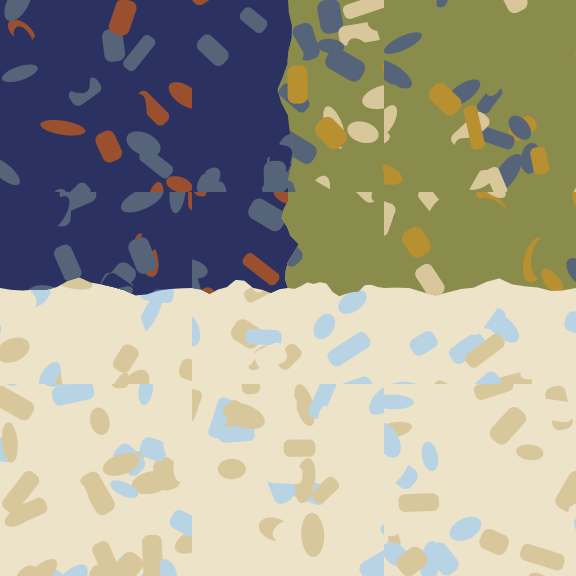
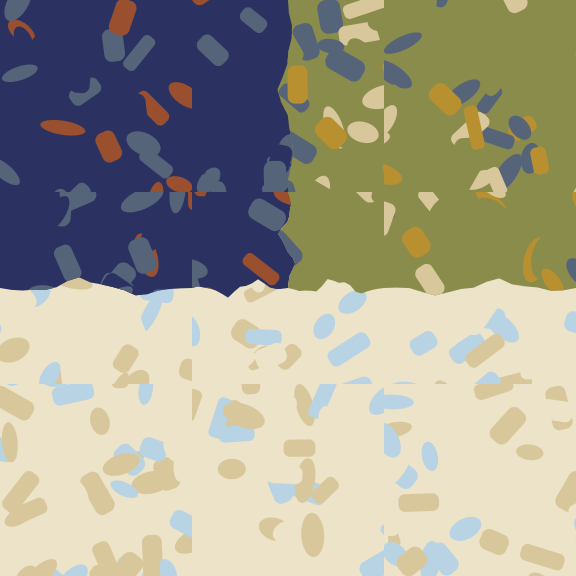
Add seed groups for named masks; regenerate v8 junction specs
Claude-Session: https://claude.ai/code/session_01V7FKm6ieSF4AmKKv53YUgA

Changed region(s): [[0.3438, 0.3438, 0.6562, 0.5312]]

diff --git a/src/metapuzzle/classes.py b/src/metapuzzle/classes.py
@@ -31,6 +31,9 @@ Spec format (see ``data/sample_classes.json``)::
   one by name with ``"mask": "name"``. The layers then share one clip region, and its
   ``<clipPath>`` is written once per piece. Example: a mosaic fill and its chips both
   clipped to the same blotch. Every named mask must be used by a layer.
+* A named mask may declare ``"seed_group": "name"``. Every mask of the class with the same
+  seed group draws its geometry from one seed, so two masks that must line up (the parts of
+  a ``tee`` junction) agree on every piece. Without a seed group a named mask has its own seed.
 * ``"outline_of": "name"`` (primitive ``march_line`` only) draws the boundary of a named
   ``march_mask`` instead of clipping to it. The layer takes the mask's geometry
   (pattern, roughness, wobble, inset) and its seed, so the line lies exactly where the
@@ -38,7 +41,8 @@ Spec format (see ``data/sample_classes.json``)::
   (``stroke``, ``color_index``). It is not clipped, and it cannot also have a ``mask``.
 * Layers are drawn in order. Layer ``i`` of a piece with seed ``s`` uses a seed derived
   from ``(s, i)`` through SHA-256 (an inline mask uses ``(s, "i:mask")``, a named mask
-  ``(s, "mask:name")``, and an outline layer the seed of the mask it outlines), so layers
+  ``(s, "mask:name")`` or ``(s, "group:seed_group")``, and an outline layer the seed of the
+  mask it outlines), so layers
   are independent and the output does not depend on ``PYTHONHASHSEED``.
 * Top-level ``ref_size`` (default 100) is the unit the spec is written in. Every piece
   is drawn at that size and the fragment is scaled to the display size, so the artwork
@@ -111,6 +115,7 @@ class ClassSpecError(ValueError):
 class Mask:
     primitive: str
     params: dict
+    seed_group: str | None = None    # named masks only: the group whose masks share a seed
 
 
 @dataclass(frozen=True)
@@ -147,17 +152,21 @@ def _check_keys(d: Mapping, allowed: set[str], where: str, required: Sequence[st
             raise ClassSpecError(f"{where}: missing required key {key!r}")
 
 
-def _parse_mask(where: str, raw: Any) -> Mask:
+def _parse_mask(where: str, raw: Any, *, named: bool = False) -> Mask:
     if not isinstance(raw, Mapping):
         raise ClassSpecError(f"{where}: mask must be an object")
-    _check_keys(raw, {"primitive", "params"}, f"{where} mask", ("primitive",))
+    allowed = {"primitive", "params", "seed_group"} if named else {"primitive", "params"}
+    _check_keys(raw, allowed, f"{where} mask", ("primitive",))
     prim = raw["primitive"]
     if not isinstance(prim, str):
         raise ClassSpecError(f"{where}: mask primitive must be a string")
     params = raw.get("params", {})
     if not isinstance(params, Mapping):
         raise ClassSpecError(f"{where}: mask params must be an object")
-    return Mask(prim, dict(params))
+    group = raw.get("seed_group")
+    if group is not None and (not isinstance(group, str) or not group):
+        raise ClassSpecError(f"{where}: seed_group must be a non-empty string")
+    return Mask(prim, dict(params), group)
 
 
 def _parse_layer(where: str, index: int, raw: Any) -> Layer:
@@ -208,7 +217,7 @@ def _parse_class(name: str, raw: Any) -> PieceClass:
     if not isinstance(masks_raw, Mapping):
         raise ClassSpecError(f"{where}: masks must be an object")
     masks = {
-        mname: _parse_mask(f"{where} mask {mname!r}", m)
+        mname: _parse_mask(f"{where} mask {mname!r}", m, named=True)
         for mname, m in masks_raw.items()
         if not str(mname).startswith("_")
     }
@@ -254,6 +263,11 @@ def _resolve_outline(layer: Layer, masks: Mapping[str, Mask]) -> Layer:
 def _layer_seed(piece_seed: int, tag: int | str) -> int:
     digest = hashlib.sha256(f"{int(piece_seed)}:{tag}".encode("utf-8")).digest()
     return int.from_bytes(digest[:8], "big")
+
+
+def _mask_tag(name: str, mask: Mask) -> str:
+    """The seed tag of a named mask: its seed group when it has one, else its own name."""
+    return f"group:{mask.seed_group}" if mask.seed_group is not None else f"mask:{name}"
 
 
 # ------------------------------------------------------------------ spec
@@ -390,16 +404,17 @@ class ClassSpec:
         used = {layer.mask for layer in layers if isinstance(layer.mask, str)}
         return {
             name: MASK_PRIMITIVES[mask.primitive](
-                _layer_seed(piece_seed, f"mask:{name}"), size, (), **mask.params,
+                _layer_seed(piece_seed, _mask_tag(name, mask)), size, (), **mask.params,
             )
             for name, mask in masks.items() if name in used
         }
 
     def _layer_fragment(self, layer: Layer, index: int, piece_seed: int, size: float,
-                        clips: Mapping[str, tuple[str, str]]) -> str:
+                        clips: Mapping[str, tuple[str, str]], masks: Mapping[str, Mask]) -> str:
         palette = self._resolve(layer.palette)
         # An outline layer shares the seed of the mask it outlines, so its line is that edge.
-        tag = index if layer.outline_of is None else f"mask:{layer.outline_of}"
+        tag = index if layer.outline_of is None else _mask_tag(layer.outline_of,
+                                                                masks[layer.outline_of])
         body = PRIMITIVES[layer.primitive](
             _layer_seed(piece_seed, tag), size, palette,
             background=layer.background, **layer.params,
@@ -440,10 +455,11 @@ class ClassSpec:
             else:
                 layers, masks = pc.layers, pc.masks
             clips = self._named_clips(layers, masks, rng_seed, ref)
-            defs = "".join(clip for clip, _ in clips.values())
+            # Masks with the same geometry (a shared seed group and params) write one clip.
+            defs = "".join({cid: clip for clip, cid in clips.values()}.values())
             inner = tx.compose(
                 f"<defs>{defs}</defs>" if defs else "",
-                *(self._layer_fragment(layer, i, rng_seed, ref, clips)
+                *(self._layer_fragment(layer, i, rng_seed, ref, clips, masks)
                   for i, layer in enumerate(layers)),
             )
             return f'<g transform="scale({float(size) / ref:.6g})">{inner}</g>'

diff --git a/tests/test_classes.py b/tests/test_classes.py
@@ -543,3 +543,93 @@ def test_sample_transition_is_a_named_mask(sample):
     assert frag.count('<clipPath id="clip-blotch_mask-') == 1
     assert frag.count('clip-path="url(#clip-blotch_mask-') == 1
 
+
+
+# ------------------------------------------------------------ seed groups
+
+def _polygon(clip_svg):
+    """The vertices of a march_mask clip polygon, as floats."""
+    pts = re.search(r'<polygon points="([^"]+)"', clip_svg).group(1)
+    return [tuple(map(float, p.split(","))) for p in pts.split()]
+
+
+def _polygon_piece(spec, seed):
+    return spec.drawer()(str(seed), "c", seed, 64.0)
+
+
+def _two_masks_spec(group_a, group_b, pattern="corner"):
+    """One class with two named march masks of identical params, each in its own group."""
+    params = {"pattern": pattern, "roughness": 1.0, "wobble": 0.2}
+    masks = {"a": {"primitive": "march_mask", "params": params},
+             "b": {"primitive": "march_mask", "params": dict(params)}}
+    if group_a is not None:
+        masks["a"]["seed_group"] = group_a
+    if group_b is not None:
+        masks["b"]["seed_group"] = group_b
+    return _load(_spec_dict({"c": {
+        "masks": masks,
+        "layers": [_layer("stipple", ("moss", "pine"), {"density": 20}, mask="a"),
+                   _layer("stipple", ("paper", "pine"), {"density": 20}, mask="b",
+                          background=False)],
+    }}))
+
+
+@pytest.mark.parametrize("seed", [1, 4, 17, 4096])
+def test_masks_in_one_seed_group_share_their_geometry(seed):
+    cls = _two_masks_spec("g", "g").classes["c"]
+    clips = _two_masks_spec("g", "g")._named_clips(cls.layers, cls.masks, seed, 100.0)
+    assert _polygon(clips["a"][0]) == _polygon(clips["b"][0])
+    assert clips["a"][1] == clips["b"][1]        # the same clip, so one <clipPath> in the piece
+    frag = _polygon_piece(_two_masks_spec("g", "g"), seed)
+    assert frag.count(f'<clipPath id="{clips["a"][1]}"') == 1
+
+
+@pytest.mark.parametrize("seed", [1, 4, 17, 4096])
+def test_masks_in_different_seed_groups_differ(seed):
+    spec = _two_masks_spec("g", "h")
+    cls = spec.classes["c"]
+    clips = spec._named_clips(cls.layers, cls.masks, seed, 100.0)
+    assert _polygon(clips["a"][0]) != _polygon(clips["b"][0])
+
+
+def test_seed_group_is_derived_from_the_piece_seed_and_the_group_name():
+    spec = _two_masks_spec("g", None)
+    cls = spec.classes["c"]
+    clips = spec._named_clips(cls.layers, cls.masks, 4, 100.0)
+    _, cid = tx.march_mask(_layer_seed(4, "group:g"), 100.0, (), pattern="corner",
+                           roughness=1.0, wobble=0.2)
+    assert clips["a"][1] == cid
+    # without a group, the mask keeps its own seed (name-based), so it is not the group's
+    assert _polygon(clips["b"][0]) != _polygon(clips["a"][0])
+
+
+def test_tee_parts_in_one_seed_group_meet_at_the_centre_for_every_piece():
+    spec = _two_masks_spec(None, None)
+    tee = {"primitive": "march_mask", "seed_group": "junction",
+           "params": {"pattern": "tee", "roughness": 0.5, "wobble": 0.12}}
+    masks = {"p1": {**tee, "params": {**tee["params"], "part": 1}},
+             "p2": {**tee, "params": {**tee["params"], "part": 2}}}
+    spec = _load(_spec_dict({"t": {"masks": masks, "layers": [
+        _layer("stipple", ("moss", "pine"), {"density": 20}, mask="p1"),
+        _layer("stipple", ("paper", "pine"), {"density": 20}, mask="p2", background=False),
+    ]}}))
+    pc = spec.classes["t"]
+    centre = (50.0, 50.0)
+    for seed in range(1, 9):
+        clips = spec._named_clips(pc.layers, pc.masks, seed, 100.0)
+        one, two = _polygon(clips["p1"][0]), _polygon(clips["p2"][0])
+        assert centre in one and centre in two
+        assert len(set(one) & set(two)) >= 12    # the shared north arm, end to end
+
+
+def test_seed_group_must_be_a_non_empty_string_on_a_named_mask():
+    base = {"primitive": "march_mask", "params": {"pattern": "corner"}}
+    for bad in ("", 3, ["g"]):
+        with pytest.raises(ClassSpecError, match="seed_group must be a non-empty string"):
+            _load(_with_mask("m1", {"m1": {**base, "seed_group": bad}}))
+
+
+def test_seed_group_is_refused_on_an_inline_mask():
+    inline = {"primitive": "blotch_mask", "seed_group": "g"}
+    with pytest.raises(ClassSpecError, match="unknown key 'seed_group'"):
+        _load(_masked(inline))

diff --git a/experiments/005-hybrid-tones/gen_classes_v8.py b/experiments/005-hybrid-tones/gen_classes_v8.py
@@ -2,10 +2,9 @@
 
 Adds <A><B><C>j for every ordered triple of distinct tiers A, B, C from D, M, L: six classes.
 The base A fills the cell. Mass B is clipped by the named mask p1 (march_mask pattern "tee",
-part 1), and mass C by p2 (part 2). Both masks take one geometry per class (the crc32 of the
-class name): a class spec gives each named mask its own seed, so without a shared geometry
-the two parts would not meet. The parts of one tee therefore always share their boundary, but
-every cell of one class has the same junction outline.
+part 1), and mass C by p2 (part 2). Both masks share the seed group "junction", so they draw
+one set of arms from the piece seed: the two parts meet exactly at the centre, and every piece
+has its own junction outline.
 
 Rotation rule (the allowed rotations are clockwise quarter turns). At rotation 0:
   top side:    B on its left half, C on its right half (the junction side J)
@@ -34,7 +33,6 @@ import copy
 import itertools
 import json
 import sys
-import zlib
 from pathlib import Path
 
 import cairosvg
@@ -67,10 +65,12 @@ DEMO = {
 }
 
 
-def _junction_mask(part: int, geometry: int) -> dict:
-    return {"primitive": "march_mask",
-            "params": {"pattern": "tee", "part": part, "roughness": 0.5, "wobble": 0.12,
-                       "geometry": geometry}}
+JUNCTION_GROUP = "junction"   # both tee parts of a class draw their arms from one seed
+
+
+def _junction_mask(part: int) -> dict:
+    return {"primitive": "march_mask", "seed_group": JUNCTION_GROUP,
+            "params": {"pattern": "tee", "part": part, "roughness": 0.5, "wobble": 0.12}}
 
 
 def build_v8(src: dict) -> dict:
@@ -79,7 +79,6 @@ def build_v8(src: dict) -> dict:
     tiers = {t: classes[t]["layers"] for t in TIERS}
     for a, b, c in itertools.permutations(TIERS):
         name = f"{a}{b}{c}j"
-        geometry = zlib.crc32(name.encode("ascii"))
         layers = copy.deepcopy(tiers[a])
         for part, tier in ((1, b), (2, c)):
             for layer in copy.deepcopy(tiers[tier]):
@@ -89,11 +88,11 @@ def build_v8(src: dict) -> dict:
             "layers": layers,
             "directional": False,
             "allowed_rotations": list(ROTATIONS),
-            "masks": {"p1": _junction_mask(1, geometry), "p2": _junction_mask(2, geometry)},
+            "masks": {"p1": _junction_mask(1), "p2": _junction_mask(2)},
         }
     data["_note"] = ("v8 (005). The v7 class set plus <A><B><C>j tee junctions for every ordered "
                      "triple of D, M, L. Base A fills the cell; mass B under mask p1 (tee part 1), "
-                     "mass C under p2 (tee part 2), both with one geometry per class. Rotation 0: "
+                     "mass C under p2 (tee part 2), both in seed group 'junction'. Rotation 0: "
                      "B on the left half of the top side, C on the right half, A on the bottom. "
                      "See gen_classes_v8.py for the rotation rule.")
     return data

diff --git a/experiments/005-hybrid-tones/gen_classes_ink_v8.py b/experiments/005-hybrid-tones/gen_classes_ink_v8.py
@@ -27,17 +27,22 @@ STROKE = 0.035   # the stroke width of the v7 outlines
 
 
 def junction_ink(src: dict) -> dict:
-    """White base, and the junction's internal outline as one black march_line."""
-    mask = src["masks"]["p1"]["params"]
-    line = {"pattern": mask["pattern"], "part": 0, "geometry": mask["geometry"],
-            "roughness": mask["roughness"], "wobble": mask["wobble"], "stroke": STROKE}
+    """White base, and the junction's internal outline as one black march_line.
+
+    The line outlines a part-0 mask (all three arms) that shares the seed group of the tee
+    parts, so for every piece it lies exactly on the boundaries of the painted masks.
+    """
+    tee = src["masks"]["p1"]
+    params = {**tee["params"], "part": 0}
     return {
         "layers": [
             {"primitive": "stipple", "palette": ["white"], "params": {"density": 0},
              "background": True},
-            {"primitive": "march_line", "palette": ["white", "black"], "params": line,
-             "background": False},
+            {"primitive": "march_line", "palette": ["white", "black"],
+             "params": {"stroke": STROKE}, "outline_of": "p0", "background": False},
         ],
+        "masks": {"p0": {"primitive": "march_mask", "seed_group": tee["seed_group"],
+                         "params": params}},
         "directional": False,
         "allowed_rotations": list(src["allowed_rotations"]),
     }
